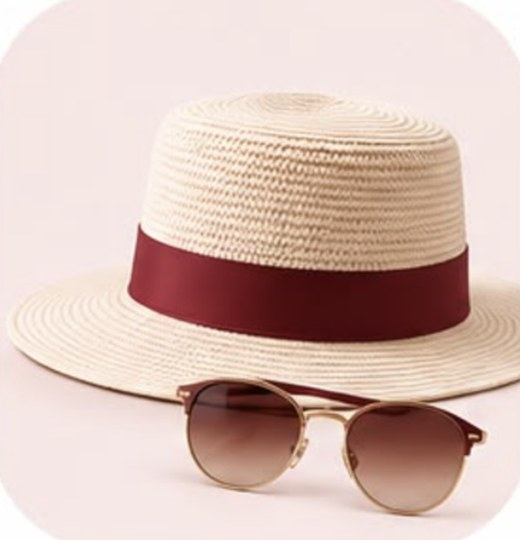
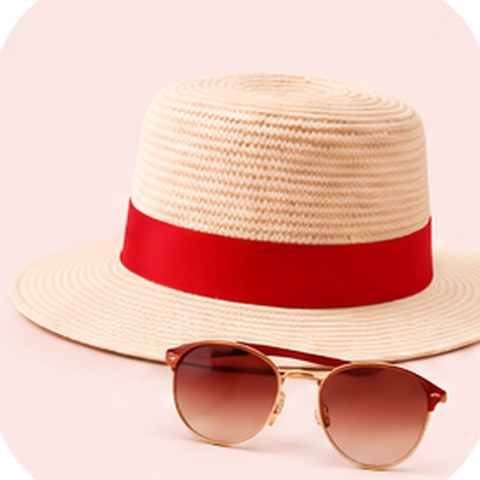
Category tiles: new pictures, smaller squares
Claude-Session: https://claude.ai/code/session_01LCnm6UNF3j2Pyn3Bi3nfDL

diff --git a/src/components/home/CategoryTiles.tsx b/src/components/home/CategoryTiles.tsx
@@ -47,24 +47,24 @@ export function CategoryTiles() {
         className="-mx-4 flex snap-x snap-mandatory gap-3 overflow-x-auto scroll-smooth px-4 pb-2 md:mx-0 md:px-0 [scrollbar-width:none] [&::-webkit-scrollbar]:hidden"
       >
         {categories.map((c) => (
-          <li key={c.slug} className="w-[46%] shrink-0 snap-start sm:w-[31%] md:w-[23%] lg:w-[19%]">
+          <li key={c.slug} className="w-[31%] shrink-0 snap-start sm:w-[22%] md:w-[17%] lg:w-[13.5%]">
             <Link href={`/businesses?category=${c.slug}`} className="lift group block text-center">
               {c.image ? (
                 <Image
                   src={c.image}
                   alt=""
-                  width={520}
-                  height={540}
-                  sizes="(min-width: 1024px) 19vw, (min-width: 768px) 23vw, (min-width: 640px) 31vw, 46vw"
-                  className="aspect-[26/27] w-full rounded-3xl bg-accent-soft object-cover"
+                  width={480}
+                  height={480}
+                  sizes="(min-width: 1024px) 14vw, (min-width: 768px) 17vw, (min-width: 640px) 22vw, 31vw"
+                  className="aspect-square w-full rounded-3xl bg-accent-soft object-cover"
                 />
               ) : (
-                <span className="flex aspect-[26/27] items-center justify-center rounded-3xl bg-accent-soft">
-                  <CategoryIcon slug={c.slug} className="size-10 text-accent" />
+                <span className="flex aspect-square items-center justify-center rounded-3xl bg-accent-soft">
+                  <CategoryIcon slug={c.slug} className="size-8 text-accent" />
                 </span>
               )}
-              <span className="mt-2 flex items-center justify-center gap-1.5 font-display text-base font-bold text-ink">
-                <CategoryIcon slug={c.slug} className="size-5 text-accent" />
+              <span className="mt-2 flex items-center justify-center gap-1.5 font-display text-sm font-bold text-ink">
+                <CategoryIcon slug={c.slug} className="size-4 text-accent" />
                 {c.name}
               </span>
             </Link>
